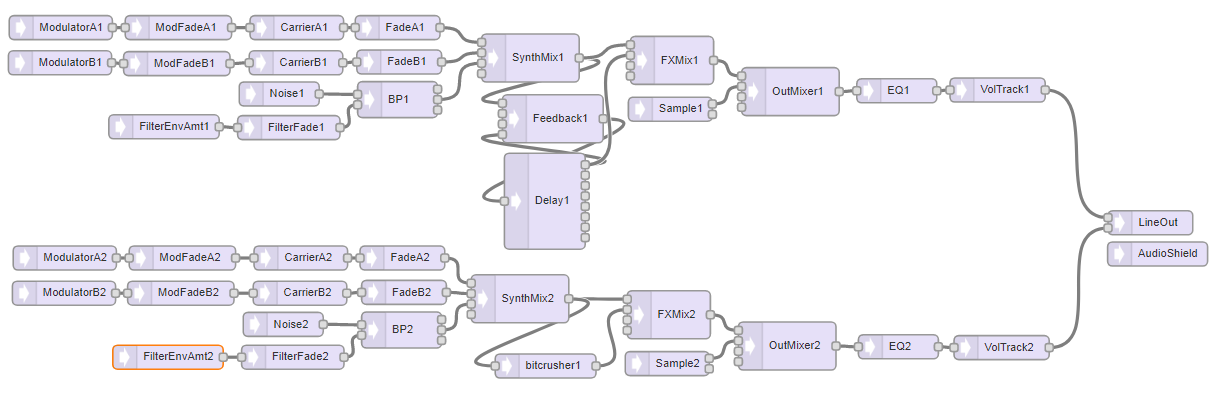
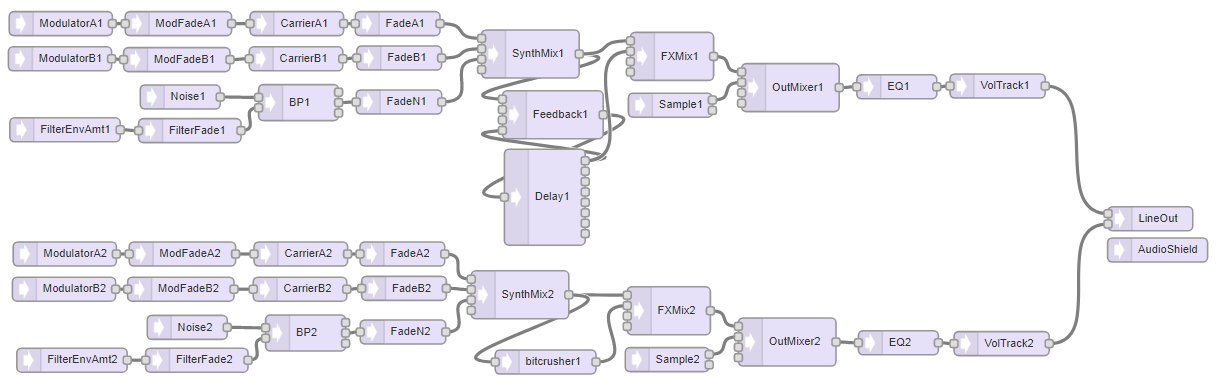
added fade to noise

diff --git a/A_Plates/SynthDiagram.cpp b/A_Plates/SynthDiagram.cpp
@@ -8,31 +8,33 @@
 AudioSynthWaveformSine   ModulatorB1;    //xy=85,131
 AudioSynthWaveformSine   ModulatorA1;    //xy=86,87
 AudioSynthWaveformSine   ModulatorB2;    //xy=90,419
+AudioSynthWaveformDc     FilterEnvAmt1; //xy=91.25000762939453,219.75000190734863
 AudioSynthWaveformSine   ModulatorA2;    //xy=91,375
-AudioSynthWaveformDc     FilterEnvAmt1; //xy=215,211
-AudioSynthWaveformDc     FilterEnvAmt2; //xy=220,499
+AudioSynthWaveformDc     FilterEnvAmt2; //xy=100,507.75000762939453
 AudioEffectFade          ModFadeB1;      //xy=231,132
 AudioEffectFade          ModFadeA1;      //xy=233,87
+AudioSynthNoiseWhite     Noise1;         //xy=235.25000762939453,178.75000190734863
 AudioEffectFade          ModFadeB2;      //xy=236,419
 AudioEffectFade          ModFadeA2;      //xy=238,375
-AudioSynthNoiseWhite     Noise1;         //xy=359,170
-AudioSynthNoiseWhite     Noise2;         //xy=364,458
-AudioEffectFade          FilterFade1;    //xy=371,212
-AudioEffectFade          FilterFade2;    //xy=376,499
+AudioSynthNoiseWhite     Noise2;         //xy=244,466.75000762939453
+AudioEffectFade          FilterFade1;    //xy=247.25000762939453,220.75000190734863
+AudioEffectFade          FilterFade2;    //xy=256,507.75000762939453
 AudioSynthWaveformSineModulated CarrierB1;      //xy=380,131
 AudioSynthWaveformSineModulated CarrierA1;      //xy=381,87
+AudioFilterStateVariable BP1;            //xy=383.25000762939453,185.75000190734863
 AudioSynthWaveformSineModulated CarrierB2;      //xy=385,419
 AudioSynthWaveformSineModulated CarrierA2;      //xy=386,375
+AudioFilterStateVariable BP2;            //xy=392,473.75000762939453
 AudioEffectFade          FadeA1;         //xy=507,87
-AudioFilterStateVariable BP1;            //xy=507,177
+AudioEffectFade          FadeN1; //xy=508.75000762939453,185.00000190734863
 AudioEffectFade          FadeB1;         //xy=509,130
-AudioFilterStateVariable BP2;            //xy=512,465
 AudioEffectFade          FadeA2;         //xy=513,375
+AudioEffectFade          FadeN2; //xy=513.7500076293945,472.50000762939453
 AudioEffectFade          FadeB2;         //xy=515,418
 AudioMixer4              SynthMix2;      //xy=660,426
 AudioMixer4              SynthMix1;      //xy=673,125
 AudioEffectDelay         Delay1;         //xy=691,304
-AudioEffectBitcrusher    BitCrush2;    //xy=692,510
+AudioEffectBitcrusher    bitcrusher1;    //xy=692,510
 AudioMixer4              Feedback1;      //xy=701,201
 AudioPlaySdWav           Sample2;        //xy=844,507
 AudioMixer4              FXMix2;         //xy=846,446
@@ -48,44 +50,46 @@ AudioOutputI2S           LineOut;        //xy=1448,331
 AudioConnection          patchCord1(ModulatorB1, ModFadeB1);
 AudioConnection          patchCord2(ModulatorA1, ModFadeA1);
 AudioConnection          patchCord3(ModulatorB2, ModFadeB2);
-AudioConnection          patchCord4(ModulatorA2, ModFadeA2);
-AudioConnection          patchCord5(FilterEnvAmt1, FilterFade1);
+AudioConnection          patchCord4(FilterEnvAmt1, FilterFade1);
+AudioConnection          patchCord5(ModulatorA2, ModFadeA2);
 AudioConnection          patchCord6(FilterEnvAmt2, FilterFade2);
 AudioConnection          patchCord7(ModFadeB1, CarrierB1);
 AudioConnection          patchCord8(ModFadeA1, CarrierA1);
-AudioConnection          patchCord9(ModFadeB2, CarrierB2);
-AudioConnection          patchCord10(ModFadeA2, CarrierA2);
-AudioConnection          patchCord11(Noise1, 0, BP1, 0);
+AudioConnection          patchCord9(Noise1, 0, BP1, 0);
+AudioConnection          patchCord10(ModFadeB2, CarrierB2);
+AudioConnection          patchCord11(ModFadeA2, CarrierA2);
 AudioConnection          patchCord12(Noise2, 0, BP2, 0);
 AudioConnection          patchCord13(FilterFade1, 0, BP1, 1);
 AudioConnection          patchCord14(FilterFade2, 0, BP2, 1);
 AudioConnection          patchCord15(CarrierB1, FadeB1);
 AudioConnection          patchCord16(CarrierA1, FadeA1);
-AudioConnection          patchCord17(CarrierB2, FadeB2);
-AudioConnection          patchCord18(CarrierA2, FadeA2);
-AudioConnection          patchCord19(FadeA1, 0, SynthMix1, 0);
-AudioConnection          patchCord20(BP1, 1, SynthMix1, 2);
-AudioConnection          patchCord21(FadeB1, 0, SynthMix1, 1);
-AudioConnection          patchCord22(BP2, 1, SynthMix2, 2);
-AudioConnection          patchCord23(FadeA2, 0, SynthMix2, 0);
-AudioConnection          patchCord24(FadeB2, 0, SynthMix2, 1);
-AudioConnection          patchCord25(SynthMix2, 0, FXMix2, 0);
-AudioConnection          patchCord26(SynthMix2, BitCrush2);
-AudioConnection          patchCord27(SynthMix1, 0, Feedback1, 0);
-AudioConnection          patchCord28(SynthMix1, 0, FXMix1, 0);
-AudioConnection          patchCord29(Delay1, 0, Feedback1, 3);
-AudioConnection          patchCord30(Delay1, 0, FXMix1, 1);
-AudioConnection          patchCord31(BitCrush2, 0, FXMix2, 1);
-AudioConnection          patchCord32(Feedback1, Delay1);
-AudioConnection          patchCord33(Sample2, 0, OutMixer2, 1);
-AudioConnection          patchCord34(FXMix2, 0, OutMixer2, 0);
-AudioConnection          patchCord35(Sample1, 0, OutMixer1, 1);
-AudioConnection          patchCord36(FXMix1, 0, OutMixer1, 0);
-AudioConnection          patchCord37(OutMixer2, EQ2);
-AudioConnection          patchCord38(OutMixer1, EQ1);
-AudioConnection          patchCord39(EQ1, VolTrack1);
-AudioConnection          patchCord40(EQ2, VolTrack2);
-AudioConnection          patchCord41(VolTrack1, 0, LineOut, 0);
-AudioConnection          patchCord42(VolTrack2, 0, LineOut, 1);
+AudioConnection          patchCord17(BP1, 1, FadeN1, 0);
+AudioConnection          patchCord18(CarrierB2, FadeB2);
+AudioConnection          patchCord19(CarrierA2, FadeA2);
+AudioConnection          patchCord20(BP2, 1, FadeN2, 0);
+AudioConnection          patchCord21(FadeA1, 0, SynthMix1, 0);
+AudioConnection          patchCord22(FadeN1, 0, SynthMix1, 2);
+AudioConnection          patchCord23(FadeB1, 0, SynthMix1, 1);
+AudioConnection          patchCord24(FadeA2, 0, SynthMix2, 0);
+AudioConnection          patchCord25(FadeN2, 0, SynthMix2, 2);
+AudioConnection          patchCord26(FadeB2, 0, SynthMix2, 1);
+AudioConnection          patchCord27(SynthMix2, 0, FXMix2, 0);
+AudioConnection          patchCord28(SynthMix2, bitcrusher1);
+AudioConnection          patchCord29(SynthMix1, 0, Feedback1, 0);
+AudioConnection          patchCord30(SynthMix1, 0, FXMix1, 0);
+AudioConnection          patchCord31(Delay1, 0, Feedback1, 3);
+AudioConnection          patchCord32(Delay1, 0, FXMix1, 1);
+AudioConnection          patchCord33(bitcrusher1, 0, FXMix2, 1);
+AudioConnection          patchCord34(Feedback1, Delay1);
+AudioConnection          patchCord35(Sample2, 0, OutMixer2, 1);
+AudioConnection          patchCord36(FXMix2, 0, OutMixer2, 0);
+AudioConnection          patchCord37(Sample1, 0, OutMixer1, 1);
+AudioConnection          patchCord38(FXMix1, 0, OutMixer1, 0);
+AudioConnection          patchCord39(OutMixer2, EQ2);
+AudioConnection          patchCord40(OutMixer1, EQ1);
+AudioConnection          patchCord41(EQ1, VolTrack1);
+AudioConnection          patchCord42(EQ2, VolTrack2);
+AudioConnection          patchCord43(VolTrack1, 0, LineOut, 0);
+AudioConnection          patchCord44(VolTrack2, 0, LineOut, 1);
 AudioControlSGTL5000     AudioShield;    //xy=1457,370
 // GUItool: end automatically generated code

diff --git a/A_Plates/firmware/Plates/Plates/AudioRouting.h b/A_Plates/firmware/Plates/Plates/AudioRouting.h
@@ -1,0 +1,122 @@
+/*
+ * AudioRouting.h
+ *
+ * Created: 06-06-2019 00:48:39
+ *  Author: tiago
+ */ 
+
+
+#ifndef AUDIOROUTING_H_
+#define AUDIOROUTING_H_
+
+// GUItool: begin automatically generated code
+AudioSynthWaveformSine   ModulatorB1;    //xy=85,131
+AudioSynthWaveformSine   ModulatorA1;    //xy=86,87
+AudioSynthWaveformSine   ModulatorB2;    //xy=90,419
+AudioSynthWaveformSine   ModulatorA2;    //xy=91,375
+AudioSynthWaveformDc     FilterEnvAmt1; //xy=215,211
+AudioSynthWaveformDc     FilterEnvAmt2; //xy=220,499
+AudioEffectFade          ModFadeB1;      //xy=231,132
+AudioEffectFade          ModFadeA1;      //xy=233,87
+AudioEffectFade          ModFadeB2;      //xy=236,419
+AudioEffectFade          ModFadeA2;      //xy=238,375
+AudioSynthNoiseWhite     Noise1;         //xy=359,170
+AudioSynthNoiseWhite     Noise2;         //xy=364,458
+AudioEffectFade          FilterFade1;    //xy=371,212
+AudioEffectFade          FilterFade2;    //xy=376,499
+AudioSynthWaveformSineModulated CarrierB1;      //xy=380,131
+AudioSynthWaveformSineModulated CarrierA1;      //xy=381,87
+AudioSynthWaveformSineModulated CarrierB2;      //xy=385,419
+AudioSynthWaveformSineModulated CarrierA2;      //xy=386,375
+AudioEffectFade          FadeA1;         //xy=507,87
+AudioFilterStateVariable BP1;            //xy=507,177
+AudioEffectFade          FadeB1;         //xy=509,130
+AudioFilterStateVariable BP2;            //xy=512,465
+AudioEffectFade          FadeA2;         //xy=513,375
+AudioEffectFade          FadeB2;         //xy=515,418
+AudioMixer4              SynthMix2;      //xy=660,426
+AudioMixer4              SynthMix1;      //xy=673,125
+AudioEffectDelay         Delay1;         //xy=691,304
+AudioEffectBitcrusher    BitCrush2;    //xy=692,510
+AudioMixer4              Feedback1;      //xy=701,201
+AudioPlaySdWav           Sample2;        //xy=844,507
+AudioMixer4              FXMix2;         //xy=846,446
+AudioPlaySdWav           Sample1;        //xy=848,189
+AudioMixer4              FXMix1;         //xy=850,128
+AudioMixer4              OutMixer2;      //xy=994,485
+AudioMixer4              OutMixer1;      //xy=998,167
+AudioFilterBiquad        EQ1;            //xy=1131,166
+AudioFilterBiquad        EQ2;            //xy=1133,486
+AudioAmplifier           VolTrack1;      //xy=1257,165
+AudioAmplifier           VolTrack2;      //xy=1262,487
+AudioOutputI2S           LineOut;        //xy=1448,331
+AudioConnection          patchCord1(ModulatorB1, ModFadeB1);
+AudioConnection          patchCord2(ModulatorA1, ModFadeA1);
+AudioConnection          patchCord3(ModulatorB2, ModFadeB2);
+AudioConnection          patchCord4(ModulatorA2, ModFadeA2);
+AudioConnection          patchCord5(FilterEnvAmt1, FilterFade1);
+AudioConnection          patchCord6(FilterEnvAmt2, FilterFade2);
+AudioConnection          patchCord7(ModFadeB1, CarrierB1);
+AudioConnection          patchCord8(ModFadeA1, CarrierA1);
+AudioConnection          patchCord9(ModFadeB2, CarrierB2);
+AudioConnection          patchCord10(ModFadeA2, CarrierA2);
+AudioConnection          patchCord11(Noise1, 0, BP1, 0);
+AudioConnection          patchCord12(Noise2, 0, BP2, 0);
+AudioConnection          patchCord13(FilterFade1, 0, BP1, 1);
+AudioConnection          patchCord14(FilterFade2, 0, BP2, 1);
+AudioConnection          patchCord15(CarrierB1, FadeB1);
+AudioConnection          patchCord16(CarrierA1, FadeA1);
+AudioConnection          patchCord17(CarrierB2, FadeB2);
+AudioConnection          patchCord18(CarrierA2, FadeA2);
+AudioConnection          patchCord19(FadeA1, 0, SynthMix1, 0);
+AudioConnection          patchCord20(BP1, 1, SynthMix1, 2);
+AudioConnection          patchCord21(FadeB1, 0, SynthMix1, 1);
+AudioConnection          patchCord22(BP2, 1, SynthMix2, 2);
+AudioConnection          patchCord23(FadeA2, 0, SynthMix2, 0);
+AudioConnection          patchCord24(FadeB2, 0, SynthMix2, 1);
+AudioConnection          patchCord25(SynthMix2, 0, FXMix2, 0);
+AudioConnection          patchCord26(SynthMix2, BitCrush2);
+AudioConnection          patchCord27(SynthMix1, 0, Feedback1, 0);
+AudioConnection          patchCord28(SynthMix1, 0, FXMix1, 0);
+AudioConnection          patchCord29(Delay1, 0, Feedback1, 3);
+AudioConnection          patchCord30(Delay1, 0, FXMix1, 1);
+AudioConnection          patchCord31(BitCrush2, 0, FXMix2, 1);
+AudioConnection          patchCord32(Feedback1, Delay1);
+AudioConnection          patchCord33(Sample2, 0, OutMixer2, 1);
+AudioConnection          patchCord34(FXMix2, 0, OutMixer2, 0);
+AudioConnection          patchCord35(Sample1, 0, OutMixer1, 1);
+AudioConnection          patchCord36(FXMix1, 0, OutMixer1, 0);
+AudioConnection          patchCord37(OutMixer2, EQ2);
+AudioConnection          patchCord38(OutMixer1, EQ1);
+AudioConnection          patchCord39(EQ1, VolTrack1);
+AudioConnection          patchCord40(EQ2, VolTrack2);
+AudioConnection          patchCord41(VolTrack1, 0, LineOut, 0);
+AudioConnection          patchCord42(VolTrack2, 0, LineOut, 1);
+AudioControlSGTL5000     AudioShield;    //xy=1457,370
+// GUItool: end automatically generated code
+
+
+
+void initAudioObjects(){
+	// AUDIO SHIELD
+	AudioShield.enable();
+	AudioShield.volume(MASTERVOL);
+	
+	// FEEDBACK DELAY
+	for(int i = 1; i < 8; i++){ // disable unused delay taps
+		Delay1.disable(i);
+	}
+	
+	// INIT VOLUMES TRACK1
+	CarrierA1.amplitude(UGAIN);
+	CarrierB1.amplitude(UGAIN);
+	Noise1.amplitude(HGAIN);
+	Feedback1.gain(0, HGAIN);
+	// INIT VOLUMES TRACK2
+	CarrierA2.amplitude(UGAIN);
+	CarrierB2.amplitude(UGAIN);
+	Noise2.amplitude(HGAIN);
+	
+}
+
+#endif /* AUDIOROUTING_H_ */

diff --git a/A_Plates/firmware/Plates/Plates/GLOBALS.h b/A_Plates/firmware/Plates/Plates/GLOBALS.h
@@ -1,0 +1,45 @@
+/*
+ * GLOBALS.h
+ *
+ * Created: 06-06-2019 00:50:03
+ *  Author: tiago
+ */ 
+
+
+#ifndef GLOBALS_H_
+#define GLOBALS_H_
+
+// SYSTEM
+#define DEBUG 1 // print messages to console?
+#define WAIT 3000 // setup wait time in ms
+#define TIMERINC 1 
+// VOLUMES
+#define UGAIN 1.f // unity gain
+#define HGAIN 0.5f // half gain (~ -6dB)
+#define MASTERVOL 0.707f
+#define SYNTHMIX 0.333f // 3 tracks at SynthMix1&2 normalize at 0.33
+#define TRACK1 0.891251f // Bass Shaker volume (-1dB)
+#define TRACK2 0.158489f // Treble shakers volume (-16dB)
+#define DRY 0.f 
+#define WET 1.f
+// FX
+#define TAP 0 // delay tap #0
+#define SR 44100 // sample rate
+#define BD 16 // bit depth
+// EQ - TRACK 1
+#define HP1 30 // track1 hi pass freq
+#define HP1RES 0.707 // track1 hi pass resonance 
+#define LP1 12000 // track1 lo pass freq
+#define LP1RES 0.707 // track1 lo pass resonance
+// EQ - TRACK 2
+#define HP2 75 // track2 hi pass freq
+#define HP2RES 0.707 // track2 hi pass resonance
+#define LP2 16000 // track2 lo pass freq
+#define LP2RES 0.707 // track2 lo pass resonance
+
+// Composition
+uint8_t numPresets = 0; // value is auto-updated in PRESETS.h
+uint8_t curPreset;
+unsigned long int clockTimer = 0; // max = 4294967295 which is more than enough
+
+#endif /* GLOBALS_H_ */
